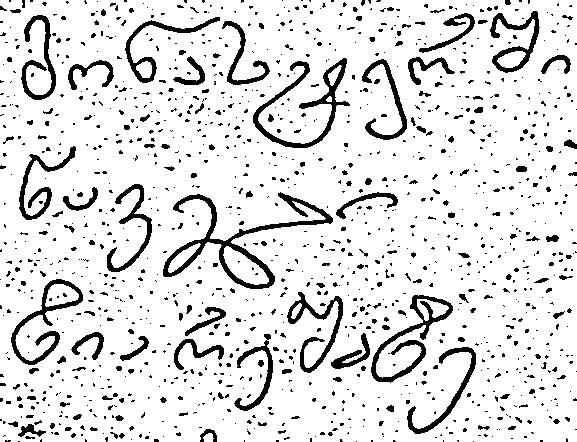
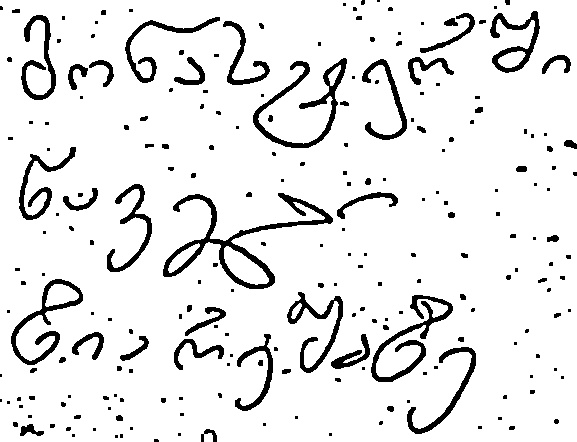
play with contour detector...

diff --git a/image_processing/src/main/java/ge/edu/tsu/hcrs/image_processing/opencv/ContoursDetector.java b/image_processing/src/main/java/ge/edu/tsu/hcrs/image_processing/opencv/ContoursDetector.java
@@ -1,0 +1,51 @@
+package ge.edu.tsu.hcrs.image_processing.opencv;
+
+import org.bytedeco.javacpp.opencv_core;
+import org.bytedeco.javacpp.opencv_imgcodecs;
+import org.bytedeco.javacpp.opencv_imgproc;
+
+public class ContoursDetector {
+
+	private static String resultImagePath = "test_images/binaryconverter/r_text";
+
+	public static opencv_core.Mat findContours(opencv_core.Mat srcMat) {
+		opencv_core.Mat grayMat = new opencv_core.Mat();
+		opencv_core.Mat resultMat = new opencv_core.Mat();
+		opencv_core.MatVector contours = new opencv_core.MatVector();
+		opencv_core.Mat hierarchy = new opencv_core.Mat();
+		opencv_imgproc.cvtColor(srcMat, grayMat, opencv_imgproc.CV_BGR2GRAY);
+		opencv_imgproc.blur(grayMat, grayMat, new opencv_core.Size(3, 3));
+		opencv_imgproc.Canny(grayMat, resultMat, 100, 200, 3, true);
+		opencv_imgproc.findContours(resultMat, contours, hierarchy, opencv_imgproc.CV_RETR_TREE, opencv_imgproc.CV_CHAIN_APPROX_SIMPLE, new opencv_core.Point(0, 0));
+
+		opencv_core.Mat drawing = new opencv_core.Mat(resultMat.size(), opencv_core.CV_8UC3);
+//		opencv_core.Point point = new opencv_core.Point(drawing.cols() / 2, drawing.rows() / 2);
+//		int radius = Math.min(drawing.cols(), drawing.rows());
+//		opencv_imgproc.circle(drawing, point, radius, new opencv_core.Scalar(255));
+
+
+
+		for (int i = 0; i < contours.size(); i++) {
+//			opencv_core.Scalar color = new opencv_core.Scalar(0, 255, 0, 255);
+//			opencv_imgproc.drawContours(drawing, contours, i, color, 2, 8, hierarchy, 0, new opencv_core.Point());
+
+
+
+//			opencv_core.Mat imagePart = new opencv_core.Mat(srcMat.size(), srcMat.type());
+//			srcMat.copyTo(imagePart, drawing);
+//			opencv_imgcodecs.imwrite(resultImagePath + "_" + i + ".jpg", imagePart);
+//			opencv_core.Rect rect = opencv_imgproc.boundingRect(contours.get(i));
+//			opencv_core.Mat r = new opencv_core.Mat();
+//			opencv_core.inRange(new opencv_core.Mat(rect), new opencv_core.Mat(new opencv_core.Scalar(0)), new opencv_core.Mat(new opencv_core.Scalar(50)), r);
+//			opencv_imgcodecs.imwrite(resultImagePath + "_" + i + ".jpg", r);
+
+			opencv_core.Mat mask = new opencv_core.Mat(resultMat.rows(), resultMat.cols(), opencv_core.CV_8UC1);
+			opencv_imgproc.drawContours(mask, contours, i, new opencv_core.Scalar(1));
+			opencv_core.Mat crop = new opencv_core.Mat(srcMat.rows(), srcMat.cols(), opencv_core.CV_8UC3);
+			crop.setTo(new opencv_core.Mat(new opencv_core.Scalar(0, 255, 0, 0)));
+			srcMat.copyTo(crop, mask);
+			opencv_imgcodecs.imwrite(resultImagePath + "_" + i + ".jpg", mask);
+		}
+		return drawing;
+	}
+}

diff --git a/image_processing/src/test/java/ge/edu/tsu/hcrs/image_processing/BinaryConverterTest.java b/image_processing/src/test/java/ge/edu/tsu/hcrs/image_processing/BinaryConverterTest.java
@@ -4,6 +4,7 @@ import ge.edu.tsu.hcrs.image_processing.opencv.BinaryConverter;
 import ge.edu.tsu.hcrs.image_processing.opencv.MorphologicalOperations;
 import ge.edu.tsu.hcrs.image_processing.opencv.NoiseRemover;
 import ge.edu.tsu.hcrs.image_processing.opencv.parameter.blurring.GaussianBlurParams;
+import ge.edu.tsu.hcrs.image_processing.opencv.parameter.blurring.MedianBlurParams;
 import ge.edu.tsu.hcrs.image_processing.opencv.parameter.morphological.DilationParams;
 import ge.edu.tsu.hcrs.image_processing.opencv.parameter.morphological.ErosionParams;
 import ge.edu.tsu.hcrs.image_processing.opencv.parameter.threshold.AdaptiveThresholdParams;
@@ -29,10 +30,10 @@ public class BinaryConverterTest {
 	@BeforeClass
 	@Ignore
 	public static void init() {
-		srcImagePath = "test_images/binaryconverter/text.jpg";
-		simpleThresholdPath = "test_images/binaryconverter/r_text_simple.jpg";
-		adaptiveThresholdPath = "test_images/binaryconverter/r_text_adaptive.jpg";
-		otsuPath = "test_images/binaryconverter/r_text_otsu.jpg";
+		srcImagePath = "test_images/binaryconverter/rr.jpg";
+		simpleThresholdPath = "test_images/binaryconverter/r_rr_simple.jpg";
+		adaptiveThresholdPath = "test_images/binaryconverter/r_rr_adaptive.jpg";
+		otsuPath = "test_images/binaryconverter/r_rr_otsu.jpg";
 	}
 
 	@Test
@@ -40,10 +41,14 @@ public class BinaryConverterTest {
 	public void applyNoiseRemovalTest() {
 		opencv_core.Mat resultMat;
 		opencv_core.Mat srcMat = opencv_imgcodecs.imread(srcImagePath, opencv_core.CV_8UC1);
-		opencv_core.Mat mat = NoiseRemover.applyNoiseRemoval(srcMat, new GaussianBlurParams(), 3);
+		opencv_core.Mat mat = NoiseRemover.applyNoiseRemoval(srcMat, new GaussianBlurParams(), 4);
 		resultMat = BinaryConverter.applyThreshold(mat, new SimpleThresholdParams());
+		resultMat = MorphologicalOperations.applyErosion(resultMat, new ErosionParams(), true, 1);
+		resultMat = MorphologicalOperations.applyDilation(resultMat, new DilationParams(), true, 1);
 		opencv_imgcodecs.imwrite(simpleThresholdPath, resultMat);
 		resultMat = BinaryConverter.applyThreshold(mat, new AdaptiveThresholdParams());
+		resultMat = MorphologicalOperations.applyErosion(resultMat, new ErosionParams(), true, 1);
+		resultMat = MorphologicalOperations.applyDilation(resultMat, new DilationParams(), true, 1);
 		opencv_imgcodecs.imwrite(adaptiveThresholdPath, resultMat);
 		resultMat = BinaryConverter.applyThreshold(mat, new OtsuBinarizationParams());
 		resultMat = MorphologicalOperations.applyErosion(resultMat, new ErosionParams(), true, 1);

diff --git a/image_processing/src/test/java/ge/edu/tsu/hcrs/image_processing/ContoursDetectorTest.java b/image_processing/src/test/java/ge/edu/tsu/hcrs/image_processing/ContoursDetectorTest.java
@@ -1,0 +1,22 @@
+package ge.edu.tsu.hcrs.image_processing;
+
+import ge.edu.tsu.hcrs.image_processing.opencv.ContoursDetector;
+import org.bytedeco.javacpp.opencv_core;
+import org.bytedeco.javacpp.opencv_imgcodecs;
+import org.junit.Ignore;
+import org.junit.Test;
+
+public class ContoursDetectorTest {
+
+	private String srcImagePath = "test_images/binaryconverter/r_text_otsu.jpg";
+	private String resultImagePath = "test_images/binaryconverter/tt.jpg";
+
+	@Test
+	@Ignore
+	public void findContoursTest() {
+		opencv_core.Mat resultMat;
+		opencv_core.Mat srcMat = opencv_imgcodecs.imread(srcImagePath);
+		resultMat = ContoursDetector.findContours(srcMat);
+		opencv_imgcodecs.imwrite(resultImagePath, resultMat);
+	}
+}

diff --git a/image_processing/src/main/java/ge/edu/tsu/hcrs/image_processing/opencv/NoiseRemover.java b/image_processing/src/main/java/ge/edu/tsu/hcrs/image_processing/opencv/NoiseRemover.java
@@ -12,6 +12,7 @@ public class NoiseRemover {
 
 	public static opencv_core.Mat applyNoiseRemoval(opencv_core.Mat srcMat, BlurringParams blurringParams, int iteration) {
 		opencv_core.Mat resultMat = new opencv_core.Mat();
+//		opencv_imgproc.cvtColor(srcMat, srcMat, opencv_imgproc.CV_BGR2GRAY);
 		if (blurringParams instanceof BlurParams) {
 			BlurParams blurParams = (BlurParams) blurringParams;
 			if (iteration > 0) {
